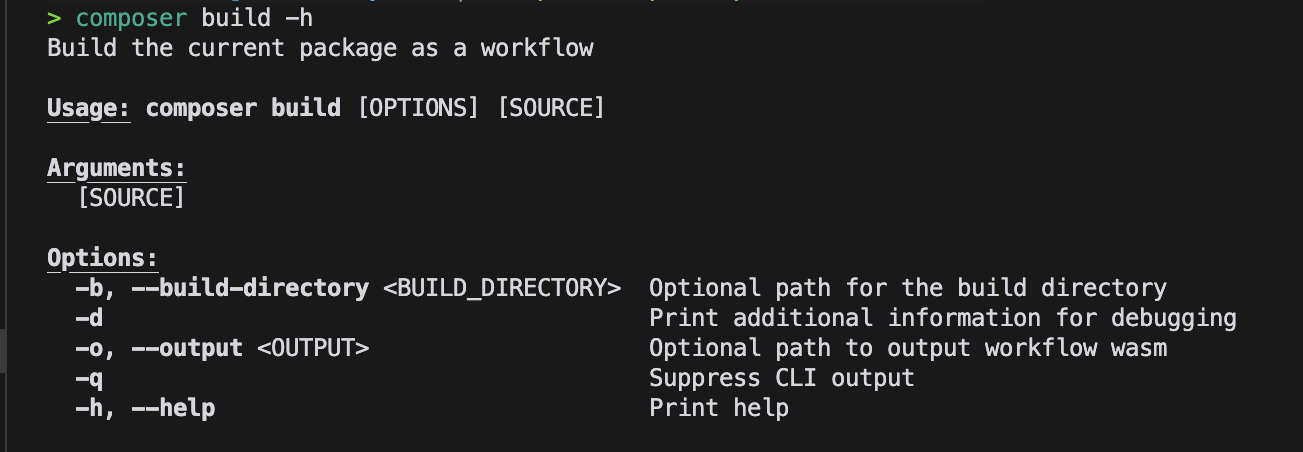
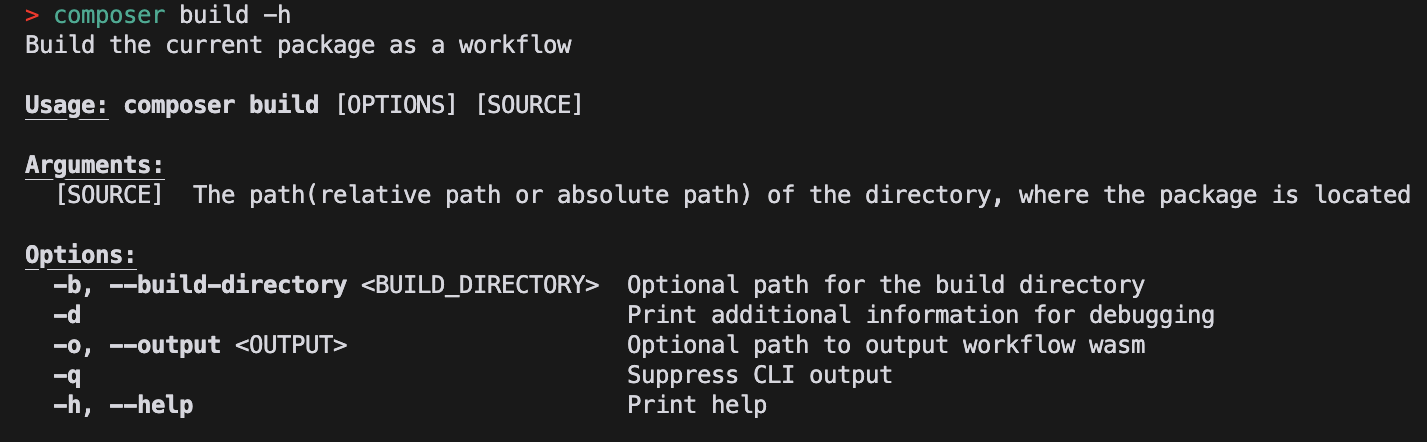
fix: update the image

diff --git a/README.md b/README.md
@@ -83,7 +83,8 @@ The Composer is an integrated software package, encompassing both the Echo Libra
 
     Here,
 
-    `[SOURCE]` - The path(relative path or absolute path) of the directory, where the package is located. 
+    - `[SOURCE]` - The path(relative path or absolute path) of the directory, where the package is located. 
+    - `--build-directory` - This is an optional path for the build directory to generate a package code, If there are issues obtaining the package code during the build process, an error is thrown.
 
 
 > [!NOTE]
